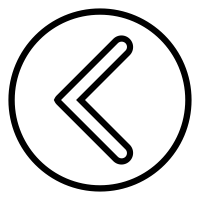
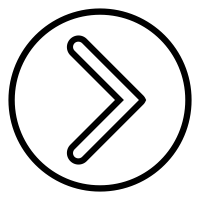
header finished

Changed region(s): [[0.27, 0.15, 0.75, 0.84]]

diff --git a/spotify/main.css b/spotify/main.css
@@ -5,28 +5,124 @@
 }
 .header{
   width: 100%;
+  height: 64px  ;
   position: fixed;
+  display: flex;
   z-index: 4;
-  background-color:rgba(15, 15, 15, 0.5);
+  background-color:rgb(0, 0, 0,0.5);
+  top: 0px;
+  align-items: center;   
+  justify-content:space-between;
 }
-.forward-button img{
-  width: 16px;
+.member{
+  display:flex;
+  flex-direction: row;
+  flex: 1fr 1fr;
+  align-items: center;
+  margin-right: 350px ;
+  gap: 20px;
+}
+.signup{
+  color: gray;
+  font-family:CircularSpotifyTxT-Black ;
+}
+.signup:hover{
+  color: white;
+  cursor: pointer;
+  margin-top: 3px;
+  transition:.9s ;
+}
+.login{
+  background-color: white;
+  width: 100px;
+  text-align:center;
+  color: black;
+  border-radius: 50px;
+  font-family:CircularSpotifyTxT-Black ;
+}
+.login:hover{
+  margin-top:3px;
+  opacity:.5;
+  cursor: pointer;
+  transition: .8;
+}
+.login p{
+  margin: 10px;
+}
+.headerbutton{
+  display:flex;
+  padding-left :30px ;
+  gap: 10px;
+}
+.f-button{
+  position:relative;
+  display: inline block;
+}
+.f-button  button{
+  width: 25px;
+  height: 25px;
   border: none;
+  background-color: rgb(112, 112, 112);
   border-radius: 200px;
 }
-.forward-button button{
+.f-button  img:hover{
+  width:27px;
+  height:27px;
+  opacity: 1;
+  transition: .2s;
+}
+.f-button img{
+  position: absolute;
+  border-radius: 200px;
+  width: 25px;
+  height: 25px;
+  opacity: 0.5;
+}
+
+.b-button{
+  position:relative;
+  display: inline block;
+}
+.b-button  img:hover{
+  width:27px;
+  height:27px;
+  opacity: 1;
+  transition: .2s;
+}
+.b-button  button{
+  width: 25px;
+  height: 25px;
   border: none;
-  border-radius: 10px;
-  background-color: black;
+  background-color: rgb(112, 112, 112);
+  border-radius: 200px;
+}
+.b-button img{
+  position: absolute;
+  border-radius: 200px;
+  width: 25px;
+  height: 25px;
+  opacity: .5;
 }
 .primary-container{
+  display: grid;
+  grid-template-columns: 1fr;
   padding:0px 24px;
-  padding-top: 60px ;
-}
+  padding-top: 85px;
+} 
 .secondary-container{
   display: grid;
-  grid-template-columns: 1fr 1fr 1fr 1fr 1fr;
+  grid-template-columns: 1fr 1fr 1fr 1fr;
   gap:24px;
+} 
+@media(max-width:1000px){
+  .secondary-container{
+      grid-template-columns: 1fr 1fr 1fr;
+  }
+}
+@media(max-width:750px){
+  .secondary-container{
+      grid-template-columns: 1fr 1fr;
+  }
 }
 .cover img{
   border-radius: 5px;

diff --git a/spotify/spotify.html b/spotify/spotify.html
@@ -12,12 +12,21 @@
   <body>
     <div class="main">
     <div class="header">
-      <div class="forward-button"><button><img src="cover/251451-200.png"></button></div>
-      <div></div>
-      <div></div>
-      <div></div>
-      <div></div>
-      <div></div>
+      <div class="headerbutton">
+        <div class="f-button">
+          <img  src="cover/IMG-20240331-WA0001 (copy).jpg">
+          <button ></button>
+        </div>
+        <div class="b-button">
+          <img src="cover/IMG-20240331-WA0001.jpg">
+          <button ></button>
+        </div>
+      </div>
+      <div class="member">
+        <div class="signup"><p>sign up</p></div>
+        <div class="login"><p>login</p></div>
+      </div>
+      
     </div>
     <div class="primary-container">
     <div class="title">
@@ -168,7 +177,8 @@
         </div>
       </div>
       </div>
-      <div class="card">
+      <div class="
+      card">
         <div class="inside-card">
         <div class="cover">
           <div class="contain">
